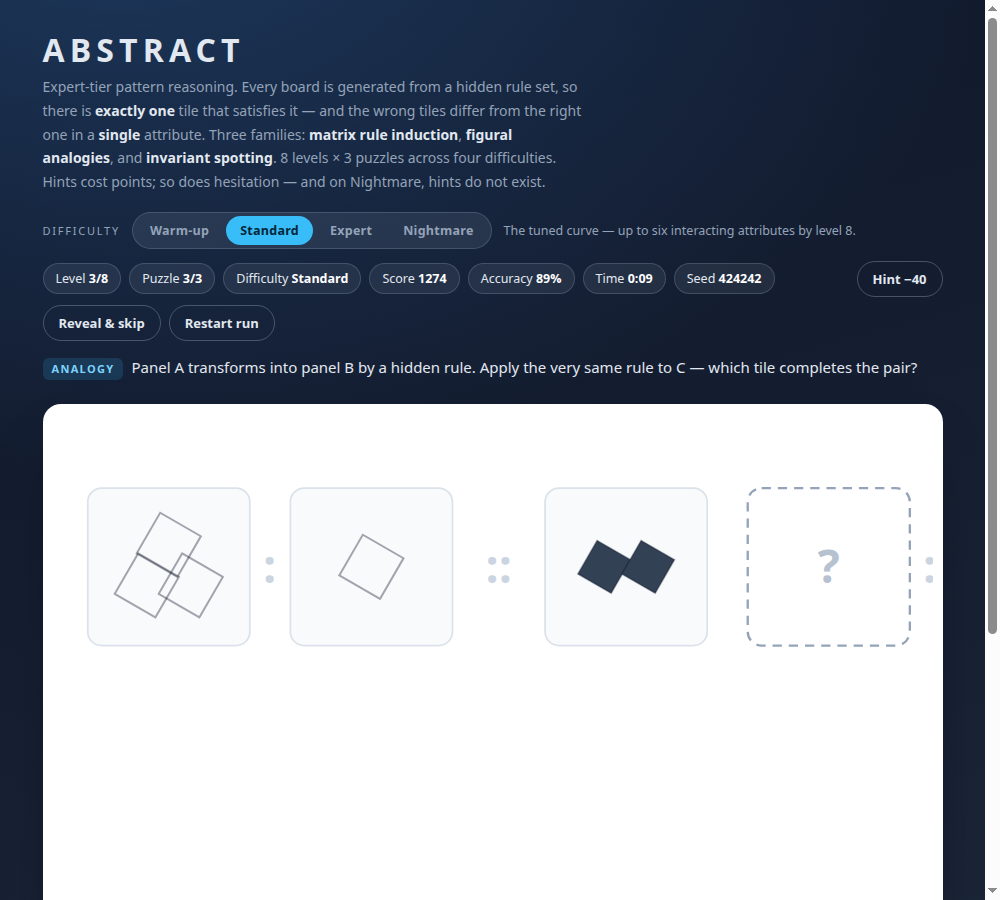
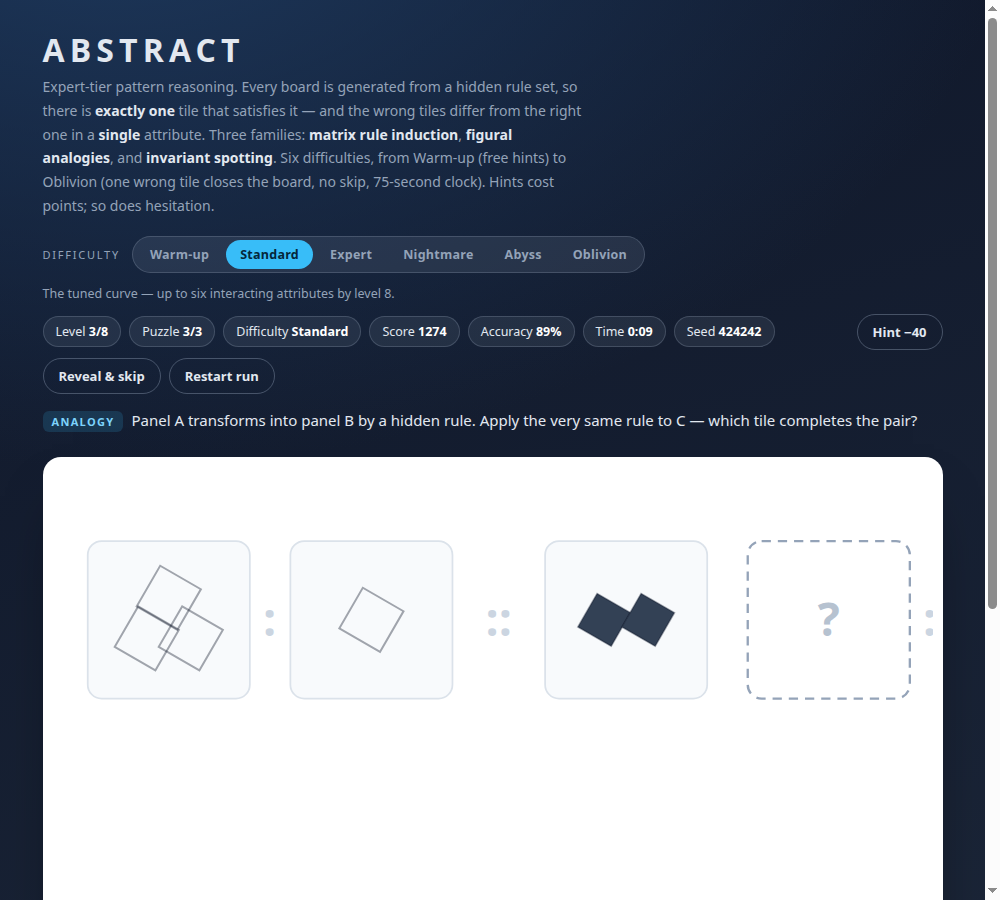
Add Abyss and Oblivion, the two rungs above Nightmare
Harder could not mean "more of the same", so these two settings unlock levers
the easier ones never touch:

- a second rule tier (t7): patterns anchored on the centre panel or advancing
  at different rates along rows and columns, e.g. rotation three steps per row
  and two per column, or size smallest at the centre.
- variedMin: the generator must now produce boards where four (Abyss) or five
  (Oblivion) attributes genuinely vary, instead of accepting boards where most
  attributes are constant.
- attemptsMax: a wrong tile closes a board after two attempts on Abyss and one
  on Oblivion, revealing the answer for no points.
- timeLimit: a hard per-board countdown (90 s / 75 s) shown in a new HUD clock
  chip that turns red in the last fifteen seconds and closes the board on zero.
- skip: false on Oblivion, and puzzles: 4 boards per level there (32 per run).

The shell now derives run length, the puzzle counter, the verdict card and the
clock from the difficulty instead of the hard-coded 8x3, and skip/fail share one
reveal path so a closed board always shows the answer and the hidden rules.
Switching difficulty keeps the board briefing visible in the status line rather
than clobbering it with the restart notice.

Tests: 30 engine groups over 38 000 boards (all six difficulties, tier-7 rules
proven to appear, variedMin enforced, defaults stay permissive) and 35 browser
assertions covering the Oblivion UI, the one-attempt close, four-board levels
and countdown expiry.

diff --git a/iq-reasoning.html b/iq-reasoning.html
@@ -48,6 +48,10 @@
   }
   .segment button[aria-checked="true"] { background: var(--accent); color: #04263a; }
   .segment button.nightmare[aria-checked="true"] { background: #fb7185; color: #3f0d1a; }
+  .segment button.abyss[aria-checked="true"] { background: #a78bfa; color: #2e1065; }
+  .segment button.oblivion[aria-checked="true"] { background: #f43f5e; color: #fff; }
+  .chip.danger { border-color: rgba(244, 63, 94, .65); background: rgba(244, 63, 94, .16); }
+  .chip.danger b { color: #fda4af; }
   .segment button.ghost { background: transparent; }
   .diff-note { font-size: 12.5px; color: var(--muted); }
   .chip {
@@ -165,8 +169,8 @@
       Expert-tier pattern reasoning. Every board is generated from a hidden rule set, so there is
       <b>exactly one</b> tile that satisfies it — and the wrong tiles differ from the right one in a
       <b>single</b> attribute. Three families: <b>matrix rule induction</b>, <b>figural analogies</b>,
-      and <b>invariant spotting</b>. 8 levels × 3 puzzles across four difficulties. Hints cost points;
-      so does hesitation — and on Nightmare, hints do not exist.
+      and <b>invariant spotting</b>. Six difficulties, from Warm-up (free hints) to Oblivion (one wrong tile
+      closes the board, no skip, 75-second clock). Hints cost points; so does hesitation.
     </p>
   </header>
 
@@ -179,6 +183,7 @@
   <div class="hud">
     <span class="chip">Level <b id="hud-level">1/8</b></span>
     <span class="chip">Puzzle <b id="hud-index">1/3</b></span>
+    <span class="chip" id="chip-clock" hidden>Clock <b id="hud-clock">—</b></span>
     <span class="chip">Difficulty <b id="hud-diff">Standard</b></span>
     <span class="chip">Score <b id="hud-score">0</b></span>
     <span class="chip">Accuracy <b id="hud-acc">—</b></span>
@@ -232,6 +237,10 @@
       <li><b>Difficulty</b> changes what the generator is allowed to do, not just the score. Warm-up plays
         two or three attributes with blunt rules and free hints; Nightmare always runs all six attributes
         with the subtlest rules, six near-identical tiles, and no hints at all.</li>
+      <li><b>Abyss and Oblivion</b> unlock a second rule tier — patterns that depend on the centre panel or
+        advance at different rates along rows and columns — and add real pressure: a minimum number of rules
+        that must genuinely vary, a hard attempt limit (Oblivion allows one guess), a per-board countdown,
+        and no skip on Oblivion.</li>
     </ul>
     <p>Keys: <kbd>Tab</kbd> select tile · <kbd>Enter</kbd> place it · <kbd>h</kbd> hint · <kbd>s</kbd> skip ·
       <kbd>n</kbd> next. Add <code>?seed=12345</code> to the URL to replay an identical run.</p>
@@ -346,6 +355,7 @@
       { t: 3, text: 'The base shape changes once per row.', gen: (r, c, ctx) => ctx.kinds[r % 3] },
       { t: 4, text: 'The base shape changes once per column.', gen: (r, c, ctx) => ctx.kinds[c % 3] },
       { t: 5, text: 'The base shape cycles along the diagonals.', gen: (r, c, ctx) => ctx.kinds[(r + c) % 3] },
+      { t: 7, text: 'The base shape advances one step per row and two per column.', gen: (r, c, ctx) => ctx.kinds[(r + 2 * c) % 3] },
     ],
     count: [
       { t: 1, text: 'The number of glyphs is identical in every panel.', gen: (r, c, ctx) => ctx.k1 },
@@ -354,6 +364,7 @@
       { t: 3, text: 'The glyph count cycles along the diagonals.', gen: (r, c) => ((r + c) % 3) + 1 },
       { t: 5, text: 'The glyph count advances by two per column and one per row.', gen: (r, c) => ((r + 2 * c) % 3) + 1 },
       { t: 6, text: 'The glyph count advances by two per row and one per column.', gen: (r, c) => ((2 * r + c) % 3) + 1 },
+      { t: 7, text: 'The glyph count advances by two at every diagonal step.', gen: (r, c) => ((2 * (r + c)) % 3) + 1 },
     ],
     rot: [
       { t: 3, text: 'Each step to the right rotates the glyph 45° clockwise.', gen: (r, c) => 45 * c },
@@ -361,12 +372,14 @@
       { t: 4, text: 'Each diagonal step rotates the glyph 45° clockwise.', gen: (r, c) => 45 * (r + c) },
       { t: 5, text: 'A step right rotates 90°; a step down rotates 45°.', gen: (r, c) => 90 * c + 45 * r },
       { t: 6, text: 'Rotation follows three 45° steps per column, one per row.', gen: (r, c) => 45 * ((r + 3 * c) % 8) },
+      { t: 7, text: 'Rotation advances three steps per row and two per column.', gen: (r, c) => 45 * ((3 * r + 2 * c) % 8) },
     ],
     size: [
       { t: 2, text: 'All glyphs are the same size.', gen: (r, c, ctx) => ctx.s1 },
       { t: 3, text: 'Glyph size cycles along the diagonals.', gen: (r, c) => SIZES[(r + c) % 3] },
       { t: 4, text: 'Glyphs shrink one step at a time from left to right.', gen: (r, c) => SIZES[2 - c] },
       { t: 6, text: 'Glyph size advances by two per row and one per column.', gen: (r, c) => SIZES[(2 * r + c) % 3] },
+      { t: 7, text: 'Glyphs are smallest at the centre panel and grow toward the corners.', gen: (r, c) => SIZES[Math.min(2, Math.abs(2 - (r + c)))] },
     ],
     fill: [
       { t: 2, text: 'Every panel uses the same fill style.', gen: (r, c, ctx) => ctx.f1 },
@@ -374,11 +387,13 @@
       { t: 3, text: 'The fill style changes from column to column.', gen: (r, c) => FILLS[c % 3] },
       { t: 5, text: 'The fill style advances one step per column and two per row.', gen: (r, c) => FILLS[(r + 2 * c) % 3] },
       { t: 6, text: 'The fill style advances two steps per row and one per column.', gen: (r, c) => FILLS[(2 * r + c) % 3] },
+      { t: 7, text: 'The fill style is set by each panel’s distance from the centre.', gen: (r, c) => FILLS[Math.abs(2 - (r + c)) % 3] },
     ],
     extra: [
       { t: 6, text: 'A secondary glyph appears on alternating panels.', gen: (r, c, ctx) => ((r + c) % 2 === 0 ? { kind: ctx.xk, rot: 0 } : null) },
       { t: 6, text: 'A secondary glyph appears only on the main diagonal.', gen: (r, c, ctx) => (r === c ? { kind: ctx.xk, rot: 0 } : null) },
       { t: 6, text: 'Every panel carries a secondary glyph that rotates with its column.', gen: (r, c, ctx) => ({ kind: ctx.xk, rot: 45 * c }) },
+      { t: 7, text: 'A secondary glyph appears on alternating panels and spins 90° per column.', gen: (r, c, ctx) => ((r + c) % 2 === 0 ? { kind: ctx.xk, rot: 90 * c } : null) },
     ],
   };
 
@@ -436,8 +451,22 @@
       base: [140, 30], wrongCost: 60, hintCost: 0, hints: false, timeWindow: 25,
       ratings: [4000, 4900, 5800, 6500],
     },
+    abyss: {
+      id: 'abyss', label: 'Abyss', blurb: 'Second-order rules, four attributes must genuinely vary, two attempts, hard clock.',
+      tiers: [7, 7, 7, 7, 7, 7, 7, 7], attrs: repeatSet(8, ALL_ATTRS), options: [6, 6, 6, 6, 6, 6, 6, 6],
+      base: [170, 35], wrongCost: 80, hintCost: 0, hints: false, timeWindow: 20,
+      variedMin: 4, attemptsMax: 2, timeLimit: 90, skip: true, puzzles: 3,
+      ratings: [5200, 6200, 7000, 7600],
+    },
+    oblivion: {
+      id: 'oblivion', label: 'Oblivion', blurb: 'One wrong tile closes the board, no skip, 75-second clock, four boards a level.',
+      tiers: [7, 7, 7, 7, 7, 7, 7, 7], attrs: repeatSet(8, ALL_ATTRS), options: [6, 6, 6, 6, 6, 6, 6, 6],
+      base: [200, 40], wrongCost: 120, hintCost: 0, hints: false, timeWindow: 15,
+      variedMin: 5, attemptsMax: 1, timeLimit: 75, skip: false, puzzles: 4,
+      ratings: [7500, 9000, 10500, 11500],
+    },
   };
-  const DIFF_ORDER = ['warmup', 'standard', 'expert', 'nightmare'];
+  const DIFF_ORDER = ['warmup', 'standard', 'expert', 'nightmare', 'abyss', 'oblivion'];
 
   function configFor(difficulty, level) {
     const d = DIFFICULTIES[difficulty] || DIFFICULTIES.standard;
@@ -448,6 +477,7 @@
       attrs: (d.attrs ? d.attrs[i] : base.attrs).slice(),
       tier: d.tiers[i],
       options: d.options[i],
+      variedMin: d.variedMin || 0,
     };
   }
 
@@ -520,7 +550,7 @@
     // reject degenerate boards: nothing varying, or a rule the eye cannot see
     const varied = attrs.filter((a) => grid.reduce((acc, row) => acc.concat(row), [])
       .filter((cell, i, all) => all.findIndex((x) => attrKeys(x, a) === attrKeys(cell, a)) === i).length > 1);
-    if (varied.length < (cfg.tier >= 3 ? 2 : 1)) return null;
+    if (varied.length < (cfg.variedMin || (cfg.tier >= 3 ? 2 : 1))) return null;
 
     const answerSig = signature(answer);
     // Distractors may break the rule of ANY active attribute (a constant rule is still a rule),
@@ -707,7 +737,7 @@
   function generate(level, index, seed, difficulty) {
     const diff = DIFFICULTIES[difficulty] ? difficulty : 'standard';
     const cfg = configFor(diff, level);
-    const family = cfg.family[index];
+    const family = cfg.family[index % cfg.family.length];
     const diffSalt = DIFF_ORDER.indexOf(diff) * 15731;
     for (let attempt = 0; attempt < 400; attempt++) {
       const rng = makeRng(((seed || 1) ^ (level * 7919 + index * 104729 + diffSalt + attempt * 2654435761)) >>> 0);
@@ -1013,6 +1043,14 @@
     });
   }
 
+  const boardHint = (id) => {
+    const d = diffOf(id);
+    const parts = [];
+    if (d.timeLimit) parts.push(`${d.timeLimit} seconds`);
+    if (d.attemptsMax) parts.push(`${d.attemptsMax === 1 ? 'one attempt' : `${d.attemptsMax} attempts`}`);
+    return parts.length ? `Drag a tile onto the dashed slot — ${parts.join(', ')}.` : 'Drag a tile onto the dashed slot.';
+  };
+
   function setDifficulty(id) {
     if (!IQ.DIFFICULTIES[id]) return;
     const changed = id !== settings.difficulty;
@@ -1022,7 +1060,7 @@
     if (!changed) return;
     if (run) {
       newRun(run.seed, id);
-      setStatus(`Difficulty set to ${IQ.DIFFICULTIES[id].label} — the run restarted.`, 'bad');
+      setStatus(`Difficulty set to ${IQ.DIFFICULTIES[id].label} — run restarted. ${boardHint(id)}`);
     } else {
       $('ov-text').innerHTML = `${OV_INTRO} Current difficulty: <b>${IQ.DIFFICULTIES[id].label}</b>.`;
     }
@@ -1032,12 +1070,15 @@
   /* ---------- scoring + flow ---------- */
   function newRun(seed, difficulty) {
     if (difficulty && IQ.DIFFICULTIES[difficulty]) { settings.difficulty = difficulty; storeDifficulty(); }
+    const d = diffOf(settings.difficulty);
     run = {
       seed: seed || (Math.floor(Math.random() * 900000) + 100000),
       difficulty: settings.difficulty,
-      level: 1, index: 0, score: 0, firstTry: 0, solved: 0, wrong: 0,
+      level: 1, index: 0, score: 0, firstTry: 0, solved: 0, wrong: 0, failed: 0,
+      puzzlesPerLevel: d.puzzles || 3, deadline: null, warned: false,
       start: Date.now(), timer: null, finished: false,
     };
+    run.total = IQ.LEVELS.length * run.puzzlesPerLevel;
     $('hud-seed').textContent = String(run.seed);
     $('hud-diff').textContent = diffOf(run.difficulty).label;
     paintDifficulty();
@@ -1046,22 +1087,28 @@
   }
 
   function newPuzzle() {
+    const d = diffOf(run.difficulty);
     const p = IQ.generate(run.level, run.index, run.seed, run.difficulty);
     if (!p) { $('status').textContent = 'Generator failed for this seed — try another seed.'; return; }
     run.puzzle = p;
     run.puzzleWrong = 0;
     run.puzzleStart = Date.now();
     run.hintUsed = false;
+    run.deadline = d.timeLimit ? Date.now() + d.timeLimit * 1000 : null;
+    run.warned = false;
+    $('chip-clock').hidden = !run.deadline;
+    $('hud-clock').textContent = '—';
     render(p);
     $('prompt').innerHTML = `<span class="fam">${familyName(p.family)}</span>${p.prompt}`;
     $('hints').textContent = '';
     $('status').className = '';
-    $('status').textContent = 'Drag a tile onto the dashed slot.';
+    $('status').textContent = boardHint(run.difficulty);
     $('btn-next').hidden = true;
-    $('btn-skip').disabled = false;
+    $('btn-skip').disabled = d.skip === false;
+    $('btn-skip').title = d.skip === false ? `${d.label} does not allow skipping` : 'Give up this board and see the rules';
     paintHintButton(false);
     paintHud();
-    say(`Level ${run.level}, puzzle ${run.index + 1}, ${diffOf(run.difficulty).label} difficulty. ${p.prompt}`);
+    say(`Level ${run.level}, puzzle ${run.index + 1}, ${d.label} difficulty. ${p.prompt}`);
   }
 
   function paintHintButton(disabled) {
@@ -1086,6 +1133,12 @@
     g.classList.add('wrong');
     window.setTimeout(() => g.classList.remove('wrong'), 360);
     const d = diffOf(run.difficulty);
+    const max = d.attemptsMax || Infinity;
+    if (run.puzzleWrong >= max) {
+      failPuzzle(`No — that tile breaks at least one hidden rule. ${d.label} allows ${max === 1 ? 'one attempt' : `only ${max} attempts`} per board.`);
+      paintHud();
+      return;
+    }
     const left = 3 - run.puzzleWrong;
     if (!d.hints) {
       setStatus(`No — that tile breaks at least one hidden rule. (−${d.wrongCost} if it stays wrong.)`, 'bad');
@@ -1117,7 +1170,9 @@
     if (run.puzzleWrong === 0 && !run.hintUsed) run.firstTry++;
     paintHintButton(true);
     $('btn-skip').disabled = true;
-    const last = run.level === 8 && run.index === 2;
+    run.deadline = null;
+    $('chip-clock').classList.remove('danger');
+    const last = isLastBoard();
     $('btn-next').hidden = false;
     $('btn-next').textContent = last ? 'See results →' : 'Next puzzle →';
     setStatus(`Correct. +${gain} points (${Math.round(seconds)}s${penalty ? `, −${penalty} penalty` : ''}).`, 'ok');
@@ -1154,35 +1209,59 @@
     paintHud();
   }
 
-  function skip() {
-    if (!run.puzzle || view.solved) return;
-    view.solved = true;
+  function revealAnswer() {
     const p = run.puzzle;
     p.tiles.forEach((t) => { if (t.id !== p.answerId) view.tileEls.get(t.id).classList.add('dim'); });
     const answer = p.tiles.find((t) => t.id === p.answerId);
-    const filled = drawPanel(view.slot.x - view.slot.w / 2, view.slot.y - view.slot.h / 2, view.slot.w, view.slot.h, 'filled');
-    layers.display.appendChild(filled);
+    if (!answer) return;
+    layers.display.appendChild(drawPanel(view.slot.x - view.slot.w / 2, view.slot.y - view.slot.h / 2, view.slot.w, view.slot.h, 'filled'));
     const grp = glyphGroup(answer.cell, 21);
     grp.setAttribute('transform', `translate(${view.slot.x},${view.slot.y})`);
     layers.display.appendChild(grp);
     view.slotEl.textContent = '';
-    setStatus('Revealed — no points.', 'bad');
     showRules();
+  }
+
+  function closeBoard(message, kind) {
+    view.solved = true;
+    run.deadline = null;
+    $('chip-clock').classList.remove('danger');
+    setStatus(message, kind || 'bad');
     paintHintButton(true);
     $('btn-skip').disabled = true;
     $('btn-next').hidden = false;
-    $('btn-next').textContent = (run.level === 8 && run.index === 2) ? 'See results →' : 'Next puzzle →';
+    $('btn-next').textContent = isLastBoard() ? 'See results →' : 'Next puzzle →';
+  }
+
+  function skip() {
+    if (!run.puzzle || view.solved) return;
+    if (diffOf(run.difficulty).skip === false) return;
+    revealAnswer();
+    closeBoard('Revealed — no points.');
+  }
+
+  function failPuzzle(reason) {
+    if (!run.puzzle || view.solved || run.finished) return;
+    revealAnswer();
+    run.failed++;
+    closeBoard(`${reason} The answer was revealed — no points.`);
+    say(reason);
+  }
+
+  function isLastBoard() {
+    return run.level >= IQ.LEVELS.length && run.index >= run.puzzlesPerLevel - 1;
   }
 
   function next() {
-    if (run.level === 8 && run.index === 2) return finish();
+    if (isLastBoard()) return finish();
     run.index++;
-    if (run.index > 2) { run.index = 0; run.level++; }
+    if (run.index >= run.puzzlesPerLevel) { run.index = 0; run.level++; }
     newPuzzle();
   }
 
   function finish() {
     run.finished = true;
+    run.deadline = null;
     clearInterval(run.timer);
     const secs = Math.round((Date.now() - run.start) / 1000);
     const d = diffOf(run.difficulty);
@@ -1190,13 +1269,14 @@
     const rating = run.score >= elite ? 'Elite' : run.score >= exc ? 'Exceptional'
       : run.score >= adv ? 'Advanced' : run.score >= strong ? 'Strong' : 'Developing';
     $('ov-title').textContent = 'Run complete';
-    $('ov-text').innerHTML = `Verdict: <b>${rating}</b> on <b>${d.label}</b>. ${run.firstTry} of 24 puzzles solved on the first try with no hint — that is the number that matters.`;
+    $('ov-text').innerHTML = `Verdict: <b>${rating}</b> on <b>${d.label}</b>. ${run.firstTry} of ${run.total} boards solved on the first try with no hint — that is the number that matters.`;
     const stats = $('ov-stats');
     stats.hidden = false;
     stats.innerHTML = `
       <div><span>${run.score}</span><em>Score</em></div>
-      <div><span>${run.solved}/24</span><em>Solved</em></div>
-      <div><span>${Math.round((run.firstTry / 24) * 100)}%</span><em>First try</em></div>
+      <div><span>${run.solved}/${run.total}</span><em>Solved</em></div>
+      <div><span>${run.failed}</span><em>Failed</em></div>
+      <div><span>${Math.round((run.firstTry / run.total) * 100)}%</span><em>First try</em></div>
       <div><span>${d.label}</span><em>Difficulty</em></div>
       <div><span>${Math.floor(secs / 60)}:${String(secs % 60).padStart(2, '0')}</span><em>Time</em></div>`;
     $('ov-btn').textContent = 'New run';
@@ -1204,8 +1284,8 @@
   }
 
   function paintHud() {
-    $('hud-level').textContent = `${run.level}/8`;
-    $('hud-index').textContent = `${run.index + 1}/3`;
+    $('hud-level').textContent = `${run.level}/${IQ.LEVELS.length}`;
+    $('hud-index').textContent = `${run.index + 1}/${run.puzzlesPerLevel}`;
     $('hud-score').textContent = String(run.score);
     const tries = run.solved + run.wrong;
     $('hud-acc').textContent = tries ? `${Math.round((run.solved / tries) * 100)}%` : '—';
@@ -1215,6 +1295,12 @@
     if (!run) return;
     const s = Math.round((Date.now() - run.start) / 1000);
     $('hud-time').textContent = `${Math.floor(s / 60)}:${String(s % 60).padStart(2, '0')}`;
+    if (!run.deadline || run.finished) return;
+    const left = Math.max(0, Math.ceil((run.deadline - Date.now()) / 1000));
+    $('hud-clock').textContent = `${Math.floor(left / 60)}:${String(left % 60).padStart(2, '0')}`;
+    $('chip-clock').classList.toggle('danger', left <= 15);
+    if (left <= 10 && !run.warned) { run.warned = true; say(`${left} seconds left on this board.`); }
+    if (left <= 0) failPuzzle('Out of time.');
   }
 
   /* ---------- wiring ---------- */

diff --git a/README.md b/README.md
@@ -25,14 +25,22 @@ Add `?seed=12345` to the URL to replay or share an identical run.
 Difficulty is a generator setting, not a score multiplier — it changes how many attributes are in play,
 how subtle a rule may be, how many near-identical tiles you must reject, and what help is available:
 
-| Difficulty | Attributes | Tiles offered | Hints | Speed-bonus window |
-| --- | --- | --- | --- | --- |
-| **Warm-up** | 2–3 | 4–5 | free | 60 s |
-| **Standard** | 2–6 (tuned curve) | 4–6 | −40 | 45 s |
-| **Expert** | 3–6, rotation from level 1 | 5–6 | −60 | 35 s |
-| **Nightmare** | 6 on every board | 6 | disabled | 25 s |
+| Difficulty | Attributes | Tiles | Hints | Speed-bonus window | Extra pressure |
+| --- | --- | --- | --- | --- | --- |
+| **Warm-up** | 2–3 | 4–5 | free | 60 s | — |
+| **Standard** | 2–6 (tuned curve) | 4–6 | −40 | 45 s | — |
+| **Expert** | 3–6, rotation from level 1 | 5–6 | −60 | 35 s | — |
+| **Nightmare** | 6 on every board | 6 | disabled | 25 s | — |
+| **Abyss** | 6 on every board | 6 | disabled | 20 s | second-tier rules, ≥4 attributes must genuinely vary, 2 attempts per board, 90 s clock |
+| **Oblivion** | 6 on every board | 6 | disabled | 15 s | ≥5 varying attributes, **one** attempt, 75 s clock, **no skip**, 4 boards per level |
 
-Changing difficulty mid-run starts a new run. The choice is remembered in `localStorage`.
+The top two rungs unlock a rule tier the easier settings never generate: patterns anchored on the centre
+panel, or advancing at different rates along rows and columns (e.g. *"Rotation advances three steps per row
+and two per column"*). They also add real pressure beyond pattern difficulty — an attempt limit that closes
+the board, a countdown that closes the board, and on Oblivion no skip and no second chances.
+
+Changing difficulty mid-run starts a new run. The choice is remembered in `localStorage`. A run is 8 levels
+× 3 boards (24), or × 4 on Oblivion (32).
 
 | Level 1–3 (warm-up) | Level 6+ (six interacting attributes) | Odd one out |
 | --- | --- | --- |
@@ -50,9 +58,9 @@ The generator never paints a board it cannot defend. For every board it guarante
 6. each difficulty really does change the generator configuration (attributes, rule subtlety, tile count,
    hint policy), not just the score.
 
-Those invariants are machine-checked: 24 000 generated boards (4 difficulties × 250 seeds × 24 puzzles)
-plus a scripted playthrough of all 24 puzzles in headless Chromium (26 assertions, including the
-difficulty switch mid-run).
+Those invariants are machine-checked: 38 000 generated boards (6 difficulties × 250 seeds, every board a
+difficulty actually generates) plus a scripted playthrough of all 24 Standard boards and the Abyss/Oblivion
+mechanics in headless Chromium (35 assertions).
 
 ## Run the checks
 
@@ -60,8 +68,8 @@ Both games ship with their own verification scripts (Node only, no dependencies)
 
 ```sh
 # generator invariants — uniqueness, tile distinctness, single-attribute distractors,
-# and that every difficulty really changes the generator configuration
-node tests/engine.test.mjs iq-reasoning.html 250
+# and that every one of the six difficulties really changes the generator configuration
+node tests/engine.test.mjs iq-reasoning.html 250    # 38 000 boards
 
 # scripted playthrough of all 24 puzzles in headless Chromium (CDP), plus screenshots
 node tests/browser.test.mjs "file://$PWD/iq-reasoning.html" .
